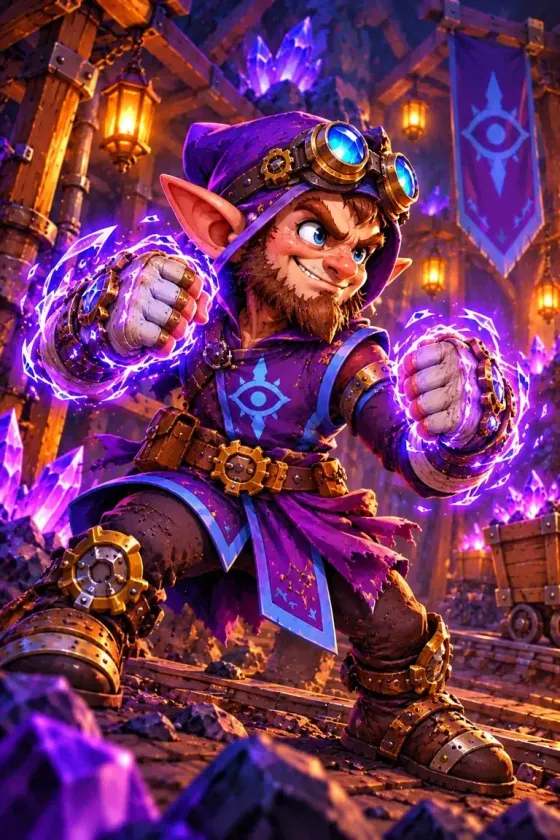
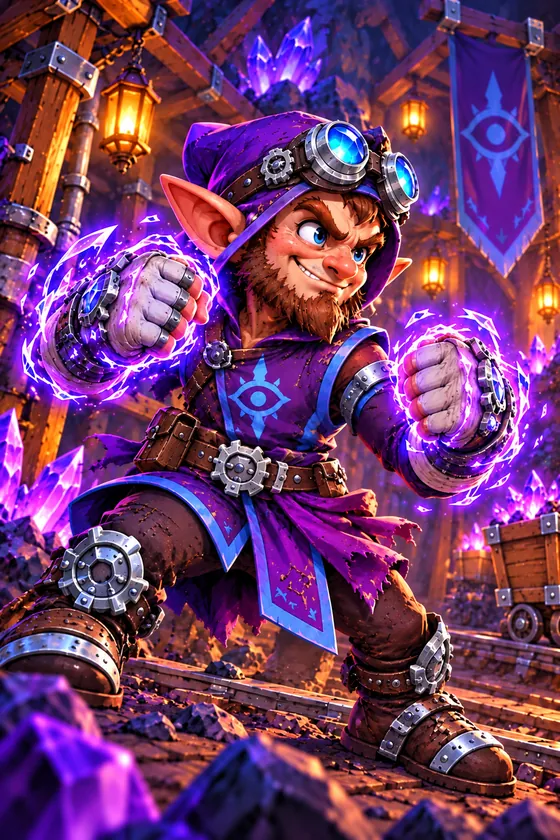
Gnome art gold -> silver (Ken; Brush): 19 gnome card paintings, Sproingle portrait + Sproingle/Sprocket commander art; new Hex Reversal card art (mirror-hex) and locked Commanders Skreeka / Grumblebeard pictures

diff --git a/projects/oreheart-8/src/ui/app.ts b/projects/oreheart-8/src/ui/app.ts
@@ -48,7 +48,7 @@ const RARITY_KEY: Record<string, string> = { Common: 'common', Uncommon: 'uncomm
 export const rarityKey = (c: any) => RARITY_KEY[c.rarity] || 'common';
 /** Picture path of a card (Goblin creatures have a generated painting). */
 /** Owner-supplied paintings (round 12a) override the generated art. */
-export const OWNER_ART: Record<string, string> = { 'goblin-scrounger': '/art/owner/goblin/goblin-miner-card-art.png', 'goblin-pebbler': '/art/owner/goblin/boneknocker-card-art.png', 'shiv-rat': '/art/owner/goblin/shiv-rat-card-art.png', 'goblin-smith-miner': '/art/owner/goblin/scrapsmith-miner-card-art.png', 'goblin-sneak': '/art/owner/goblin/goblin-sneak-card-art.webp', 'goblin-bomber': '/art/owner/goblin/goblin-bomber-card-art.webp', 'goblin-scrapper': '/art/owner/goblin/goblin-scrapper-card-art.webp', 'grubnaks-big-boss-troll': '/art/owner/goblin/grubnaks-big-boss-troll-card-art.webp', 'junk-shaman': '/art/owner/goblin/junk-shaman-card-art.webp', 'wolf-rider': '/art/owner/goblin/wolf-rider-card-art.webp', 'rotgut-grenadier': '/art/owner/goblin/rotgut-grenadier-card-art.webp', 'shard-guzzler': '/art/owner/goblin/shard-guzzler-card-art.webp', 'blastrat-sapper': '/art/owner/goblin/blastrat-sapper-card-art.webp', 'hold-it': '/art/owner/goblin/hold-it-card-art.webp', 'tunnel-rush': '/art/owner/goblin/tunnel-rush-card-art.webp', 'goblin-grunt': '/art/owner/goblin/goblin-grunt-card-art.webp', 'skullbasher-rusher': '/art/owner/goblin/skullbasher-rusher-card-art.webp', 'goblin-slinger': '/art/owner/goblin/goblin-slinger-card-art.webp', 'gnome-tinker': '/art/owner/gnome/gnome-tinker-card-art.webp', 'gearward-sentinel': '/art/owner/gnome/gearward-sentinel-card-art.webp', 'gnome-prospector': '/art/owner/gnome/gnome-prospector-card-art.webp', 'glyphshield-warden': '/art/owner/gnome/glyphshield-warden-card-art.webp', 'clockwork-beetle': '/art/owner/gnome/clockwork-beetle-card-art.webp', 'gnome-illusionist': '/art/owner/gnome/gnome-illusionist-card-art.webp', 'the-great-steam-golem': '/art/owner/gnome/the-great-steam-golem-card-art.webp', 'spark-gnome': '/art/owner/gnome/spark-gnome-card-art.webp', 'gnome-cogger': '/art/owner/gnome/gnome-cogger-card-art.webp', 'fireball': '/art/owner/gnome/fireball-card-art.webp', 'meteor-strike': '/art/owner/gnome/meteor-strike-card-art.webp', 'spell-snap': '/art/owner/gnome/spell-snap-card-art.webp', 'gnome-smith-miner': '/art/owner/gnome/gnome-smith-miner-card-art.webp', 'axe-thrower': '/art/owner/dwarf/axe-thrower-card-art.webp', 'barrelback-courier': '/art/owner/dwarf/barrelback-courier-card-art.webp', 'brewmaster': '/art/owner/dwarf/brewmaster-card-art.webp', 'crystal-cluster': '/art/owner/neutral/crystal-cluster-card-art.webp', 'crystal-drunk-delver': '/art/owner/dwarf/crystal-drunk-delver-card-art.webp', 'deepforge-crossbowman': '/art/owner/dwarf/deepforge-crossbowman-card-art.webp', 'dwarf-miner': '/art/owner/dwarf/dwarf-miner-card-art.webp', 'dwarf-pickman': '/art/owner/dwarf/dwarf-pickman-card-art.webp', 'dwarf-stoneback': '/art/owner/dwarf/dwarf-stoneback-card-art.webp', 'fizzle': '/art/owner/neutral/fizzle-card-art.webp', 'glowing-geode': '/art/owner/neutral/glowing-geode-card-art.webp', 'gnome-widget': '/art/owner/gnome/gnome-widget-card-art.webp', 'grimhold-ravager': '/art/owner/dwarf/grimhold-ravager-card-art.webp', 'gyrocopter-ace': '/art/owner/gnome/gyrocopter-ace-card-art.webp', 'healing-light': '/art/owner/neutral/healing-light-card-art.webp', 'heart-of-the-fallen': '/art/owner/neutral/heart-of-the-fallen-card-art.webp', 'hexwright-apprentice': '/art/owner/gnome/hexwright-apprentice-card-art.webp', 'ironhammer-berserker': '/art/owner/dwarf/ironhammer-berserker-card-art.webp', 'motherlode': '/art/owner/neutral/motherlode-card-art.webp', 'oathbound-pikeman': '/art/owner/dwarf/oathbound-pikeman-card-art.webp', 'overclocked-conduit': '/art/owner/gnome/overclocked-conduit-card-art.webp', 'phase-stalker': '/art/owner/gnome/phase-stalker-card-art.webp', 'prospectors-prayer': '/art/owner/neutral/prospectors-prayer-card-art.webp', 'queen-brunhilda-stonebeard': '/art/owner/dwarf/queen-brunhilda-stonebeard-card-art.webp', 'ram-rider': '/art/owner/dwarf/ram-rider-card-art.webp', 'rune-splitter': '/art/owner/dwarf/rune-splitter-card-art.webp', 'runic-siphoner': '/art/owner/gnome/runic-siphoner-card-art.webp', 'second-wind': '/art/owner/dwarf/second-wind-card-art.webp', 'shield-bubble': '/art/owner/dwarf/shield-bubble-card-art.webp', 'shieldbeard': '/art/owner/dwarf/shieldbeard-card-art.webp', 'soul-shard': '/art/owner/neutral/soul-shard-card-art.webp', 'venom-shiv': '/art/owner/goblin/venom-shiv-card-art.webp', 'battle-cry': '/art/owner/dwarf/battle-cry-card-art.webp', 'dwarf-smith-miner': '/art/owner/dwarf/dwarf-smith-miner-card-art.webp' };
+export const OWNER_ART: Record<string, string> = { 'goblin-scrounger': '/art/owner/goblin/goblin-miner-card-art.png', 'goblin-pebbler': '/art/owner/goblin/boneknocker-card-art.png', 'shiv-rat': '/art/owner/goblin/shiv-rat-card-art.png', 'goblin-smith-miner': '/art/owner/goblin/scrapsmith-miner-card-art.png', 'goblin-sneak': '/art/owner/goblin/goblin-sneak-card-art.webp', 'goblin-bomber': '/art/owner/goblin/goblin-bomber-card-art.webp', 'goblin-scrapper': '/art/owner/goblin/goblin-scrapper-card-art.webp', 'grubnaks-big-boss-troll': '/art/owner/goblin/grubnaks-big-boss-troll-card-art.webp', 'junk-shaman': '/art/owner/goblin/junk-shaman-card-art.webp', 'wolf-rider': '/art/owner/goblin/wolf-rider-card-art.webp', 'rotgut-grenadier': '/art/owner/goblin/rotgut-grenadier-card-art.webp', 'shard-guzzler': '/art/owner/goblin/shard-guzzler-card-art.webp', 'blastrat-sapper': '/art/owner/goblin/blastrat-sapper-card-art.webp', 'hold-it': '/art/owner/goblin/hold-it-card-art.webp', 'tunnel-rush': '/art/owner/goblin/tunnel-rush-card-art.webp', 'goblin-grunt': '/art/owner/goblin/goblin-grunt-card-art.webp', 'skullbasher-rusher': '/art/owner/goblin/skullbasher-rusher-card-art.webp', 'goblin-slinger': '/art/owner/goblin/goblin-slinger-card-art.webp', 'gnome-tinker': '/art/owner/gnome/gnome-tinker-card-art.webp', 'gearward-sentinel': '/art/owner/gnome/gearward-sentinel-card-art.webp', 'gnome-prospector': '/art/owner/gnome/gnome-prospector-card-art.webp', 'glyphshield-warden': '/art/owner/gnome/glyphshield-warden-card-art.webp', 'clockwork-beetle': '/art/owner/gnome/clockwork-beetle-card-art.webp', 'gnome-illusionist': '/art/owner/gnome/gnome-illusionist-card-art.webp', 'the-great-steam-golem': '/art/owner/gnome/the-great-steam-golem-card-art.webp', 'spark-gnome': '/art/owner/gnome/spark-gnome-card-art.webp', 'gnome-cogger': '/art/owner/gnome/gnome-cogger-card-art.webp', 'fireball': '/art/owner/gnome/fireball-card-art.webp', 'meteor-strike': '/art/owner/gnome/meteor-strike-card-art.webp', 'spell-snap': '/art/owner/gnome/spell-snap-card-art.webp', 'gnome-smith-miner': '/art/owner/gnome/gnome-smith-miner-card-art.webp', 'axe-thrower': '/art/owner/dwarf/axe-thrower-card-art.webp', 'barrelback-courier': '/art/owner/dwarf/barrelback-courier-card-art.webp', 'brewmaster': '/art/owner/dwarf/brewmaster-card-art.webp', 'crystal-cluster': '/art/owner/neutral/crystal-cluster-card-art.webp', 'crystal-drunk-delver': '/art/owner/dwarf/crystal-drunk-delver-card-art.webp', 'deepforge-crossbowman': '/art/owner/dwarf/deepforge-crossbowman-card-art.webp', 'dwarf-miner': '/art/owner/dwarf/dwarf-miner-card-art.webp', 'dwarf-pickman': '/art/owner/dwarf/dwarf-pickman-card-art.webp', 'dwarf-stoneback': '/art/owner/dwarf/dwarf-stoneback-card-art.webp', 'fizzle': '/art/owner/neutral/fizzle-card-art.webp', 'glowing-geode': '/art/owner/neutral/glowing-geode-card-art.webp', 'gnome-widget': '/art/owner/gnome/gnome-widget-card-art.webp', 'grimhold-ravager': '/art/owner/dwarf/grimhold-ravager-card-art.webp', 'gyrocopter-ace': '/art/owner/gnome/gyrocopter-ace-card-art.webp', 'healing-light': '/art/owner/neutral/healing-light-card-art.webp', 'heart-of-the-fallen': '/art/owner/neutral/heart-of-the-fallen-card-art.webp', 'hexwright-apprentice': '/art/owner/gnome/hexwright-apprentice-card-art.webp', 'ironhammer-berserker': '/art/owner/dwarf/ironhammer-berserker-card-art.webp', 'motherlode': '/art/owner/neutral/motherlode-card-art.webp', 'oathbound-pikeman': '/art/owner/dwarf/oathbound-pikeman-card-art.webp', 'overclocked-conduit': '/art/owner/gnome/overclocked-conduit-card-art.webp', 'phase-stalker': '/art/owner/gnome/phase-stalker-card-art.webp', 'prospectors-prayer': '/art/owner/neutral/prospectors-prayer-card-art.webp', 'queen-brunhilda-stonebeard': '/art/owner/dwarf/queen-brunhilda-stonebeard-card-art.webp', 'ram-rider': '/art/owner/dwarf/ram-rider-card-art.webp', 'rune-splitter': '/art/owner/dwarf/rune-splitter-card-art.webp', 'runic-siphoner': '/art/owner/gnome/runic-siphoner-card-art.webp', 'second-wind': '/art/owner/dwarf/second-wind-card-art.webp', 'shield-bubble': '/art/owner/dwarf/shield-bubble-card-art.webp', 'shieldbeard': '/art/owner/dwarf/shieldbeard-card-art.webp', 'soul-shard': '/art/owner/neutral/soul-shard-card-art.webp', 'venom-shiv': '/art/owner/goblin/venom-shiv-card-art.webp', 'battle-cry': '/art/owner/dwarf/battle-cry-card-art.webp', 'dwarf-smith-miner': '/art/owner/dwarf/dwarf-smith-miner-card-art.webp', 'mirror-hex': '/art/owner/neutral/mirror-hex-card-art.webp' };
 export const commanderPortrait = (id: string) => (id === 'grubnak' ? '/art/owner/goblin/grubnak-on-throne-art.png' : id === 'sproingle' ? '/art/owner/gnome/sproingle-portrait.webp' : id === 'borgo' ? '/art/owner/dwarf/borgo-portrait.webp' : `/art/commanders/${id}.webp`);
 export const pictureOf = (c: any): string | null => (c && OWNER_ART[c.id]) ? OWNER_ART[c.id] : (c && ((c.type === 'creature' && c.faction === 'goblins') || (c.type === 'spell' && !c.disabled)) ? `/art/cards/${c.id}.webp` : null);
 export const FRAME: Record<string, string> = { goblins: 'goblin', gnomes: 'gnome', dwarves: 'dwarf' };
